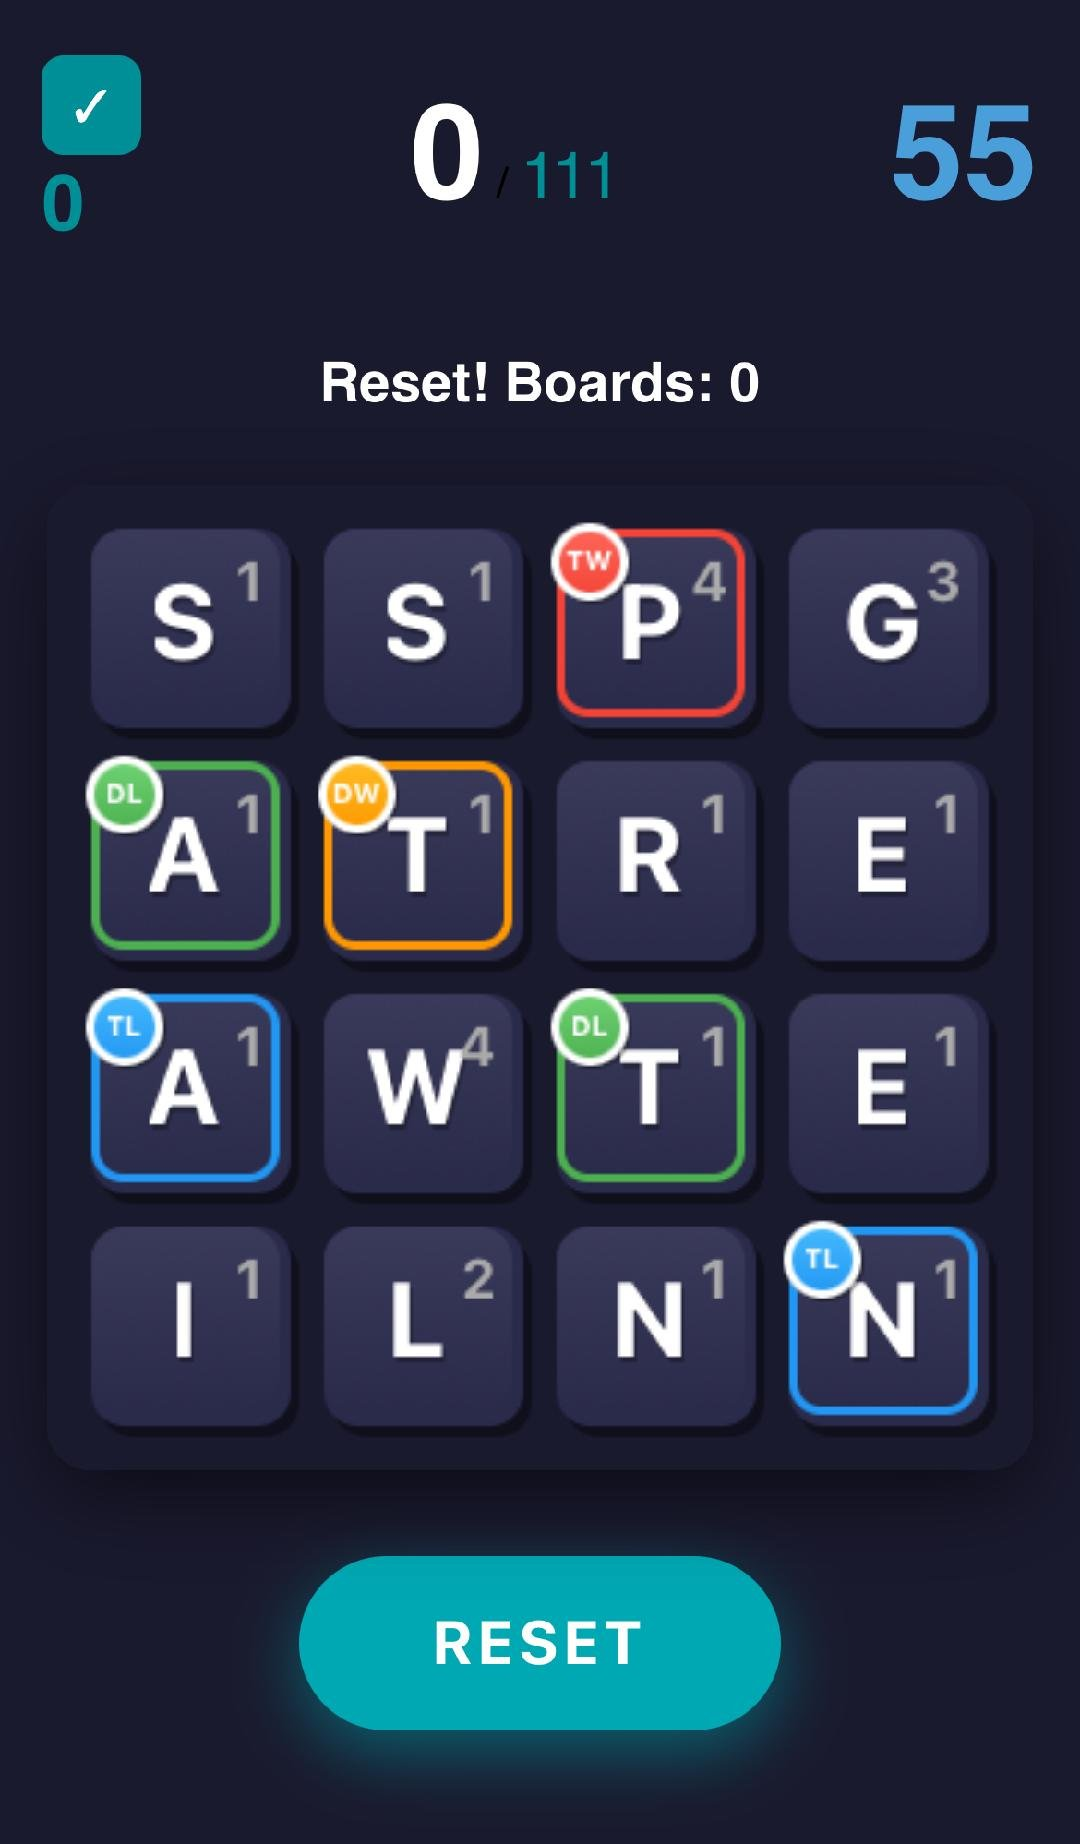
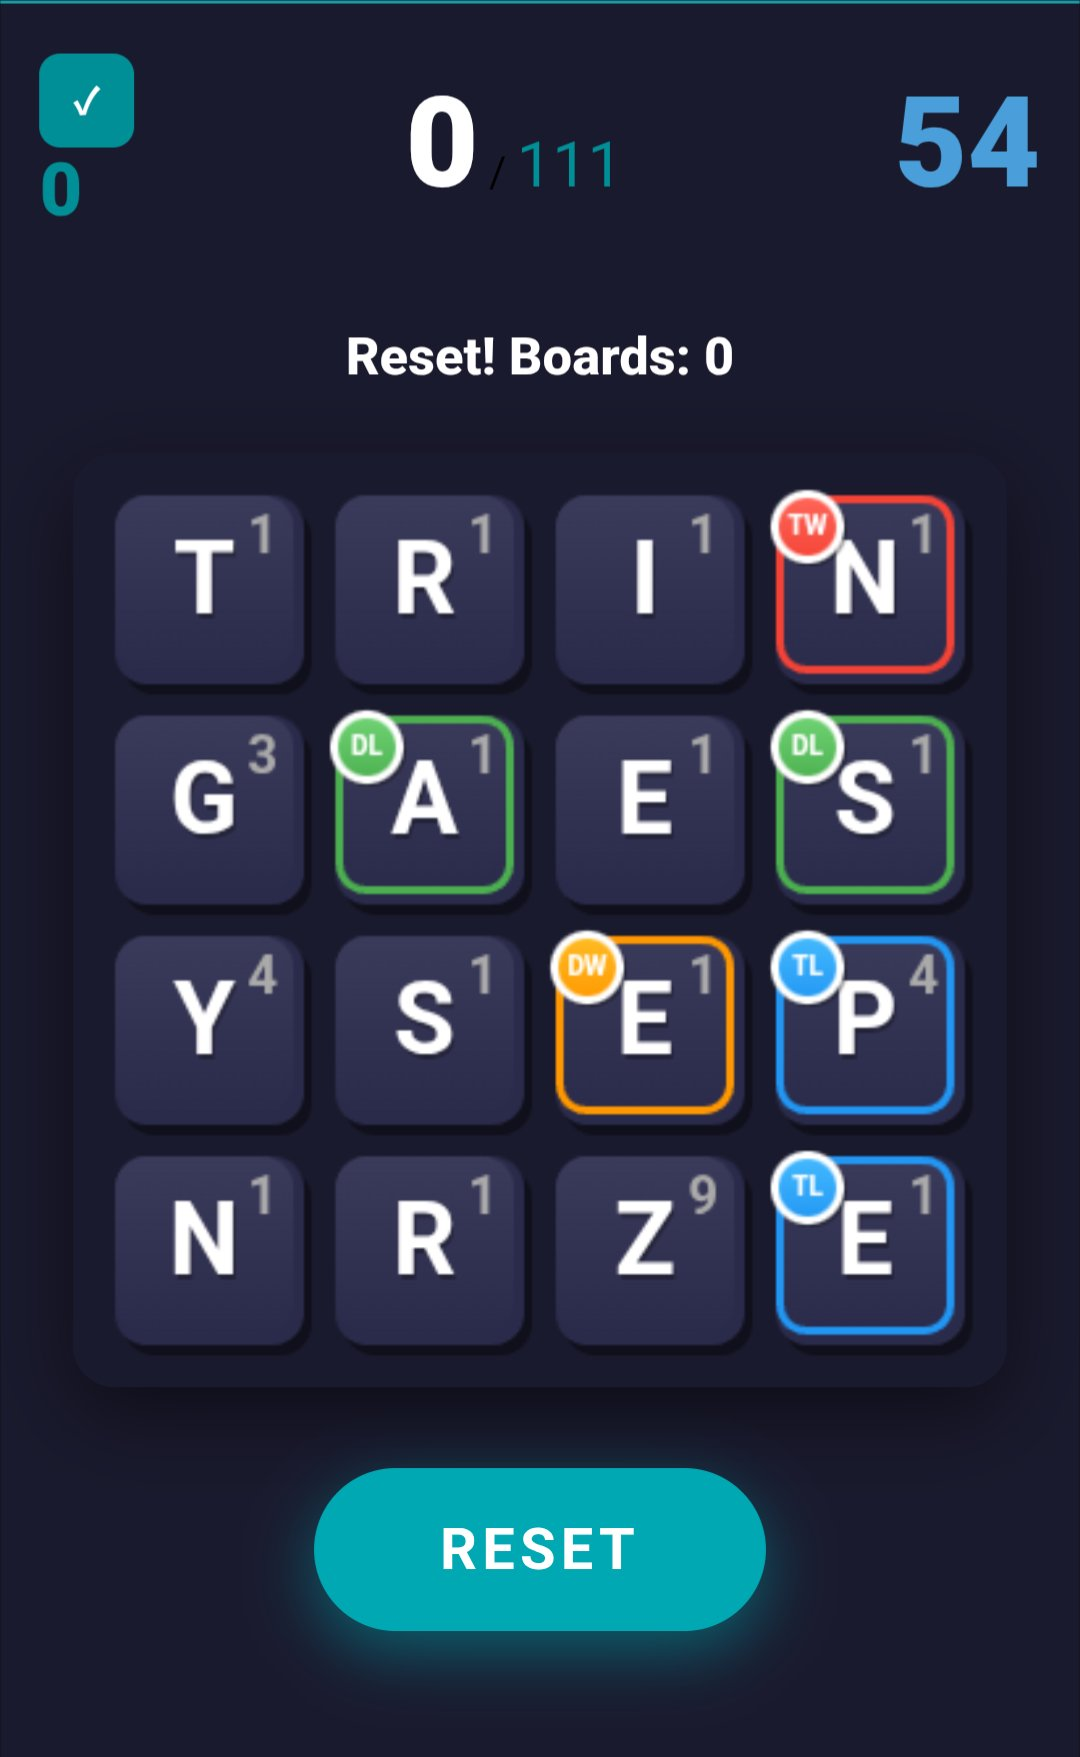
Add files via upload

diff --git a/game.js b/game.js
@@ -818,30 +818,24 @@ function startGame() {
 }
 
 function resetGame() {
-  saveCurrentBoardResult();
+  saveCurrentBoardResult(); // Save board for results analysis
   stopTimer();
-  gameState = 'timeout';
-  saveFinalBoardLayout();
-  // Hide results button immediately, show only after solver completes
+  totalScore = 0;
+  boardsSolved = 0;
+  foundWords.clear();
+  boardResults = { playerWords: [], boardStates: [], finalBoard: null };
+  currentBoardBest = { word: '', score: 0 };
+  sessionStorage.removeItem('boardResults');
+  board = generateValidBoard();
+  gameState = 'playing';
+  updateScore();
   if (resultsBtn) {
     resultsBtn.classList.remove('visible');
     resultsBtn.style.display = 'none';
   }
-  showFeedback(`Reset! Boards: ${boardsSolved}`, 'timeout');
-  startBtn.textContent = 'New Game';
+  startBtn.textContent = 'Reset';
+  startTimer();
   draw();
-  setTimeout(() => {
-    try {
-      boardResults.bestWords = computeAllBestWords();
-      saveFinalGameResults();
-    } catch(e) {
-      console.error('Solver error:', e);
-    }
-    if (resultsBtn) {
-      resultsBtn.classList.add('visible');
-      resultsBtn.style.display = 'block';
-    }
-  }, 50);
 }
 
 // =============================================================================
